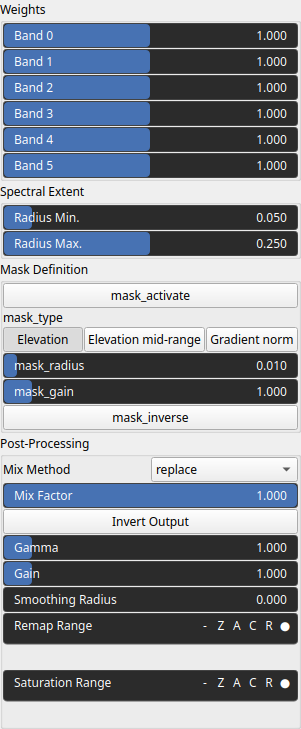
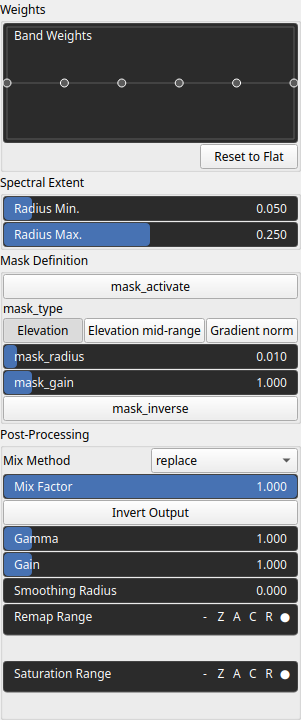
Update doc

diff --git a/docs/node_reference/nodes/SpectralEqualizer.md b/docs/node_reference/nodes/SpectralEqualizer.md
@@ -31,6 +31,7 @@ Filter
 
 |Name|Type|Description|
 | :--- | :--- | :--- |
+|Band Weights|Vector of floats|No description|
 |mask_activate|Bool|Enables or disables the internal mask. If the node's 'mask' input is connected, this setting is bypassed and the input mask is used instead.|
 |mask_gain|Float|Controls the intensity or influence of the internal mask. Bypassed if the 'mask' input is connected.|
 |mask_inverse|Bool|Inverts the internal mask, applying the operator where the mask is low. Ignored if a 'mask' input is provided.|
@@ -46,12 +47,6 @@ Filter
 |Smoothing Radius|Float|Applies additional smoothing to the output. Larger values reduce fine details.|
 |Radius Max.|Float|Maximum smoothing radius defining the lowest frequency band. Controls large-scale structures.|
 |Radius Min.|Float|Minimum smoothing radius defining the highest frequency band. Controls fine details.|
-|Band 0|Float|Weight for the lowest frequency band (largest structures).|
-|Band 1|Float|Weight for low-mid frequency features.|
-|Band 2|Float|Weight for mid-frequency features.|
-|Band 3|Float|Weight for high-mid frequency details.|
-|Band 4|Float|Weight for fine-scale details.|
-|Band 5|Float|Weight for the highest frequency band (finest details and noise).|
 
 # Example
 
